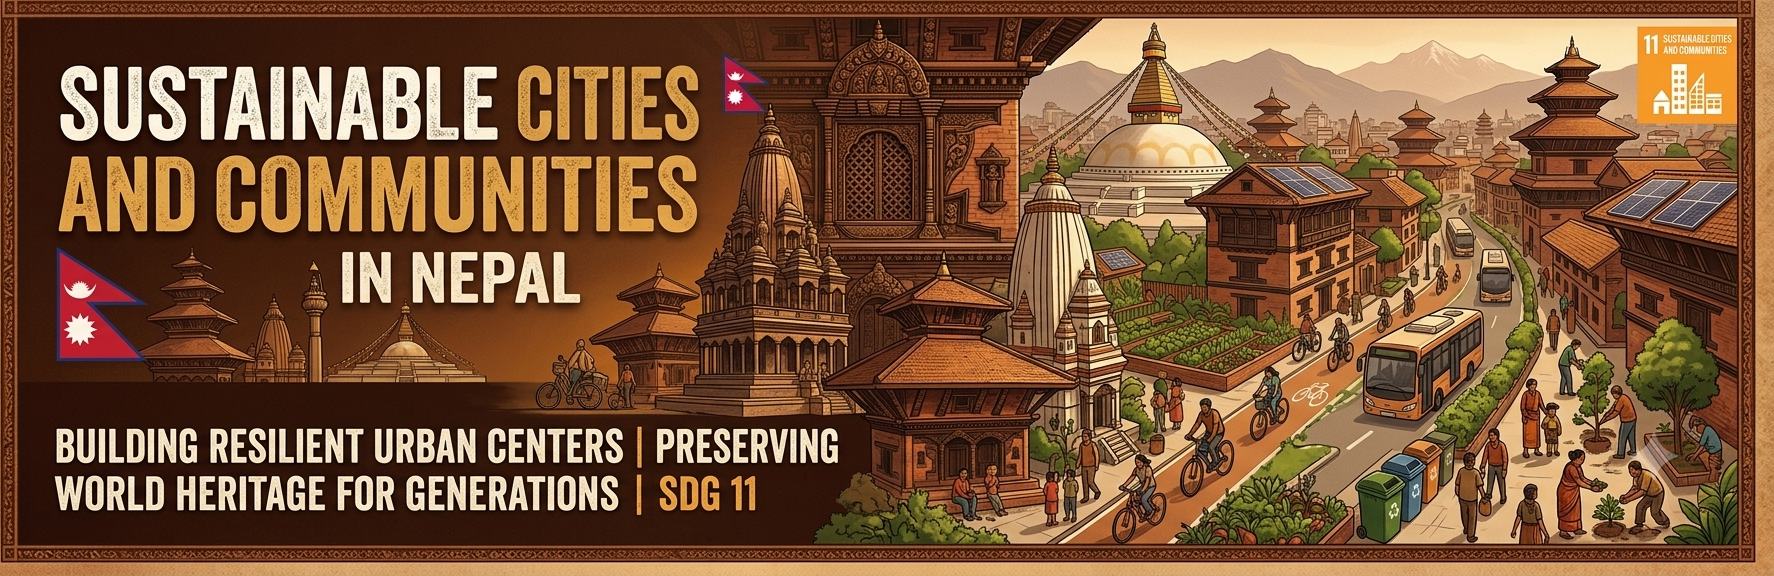
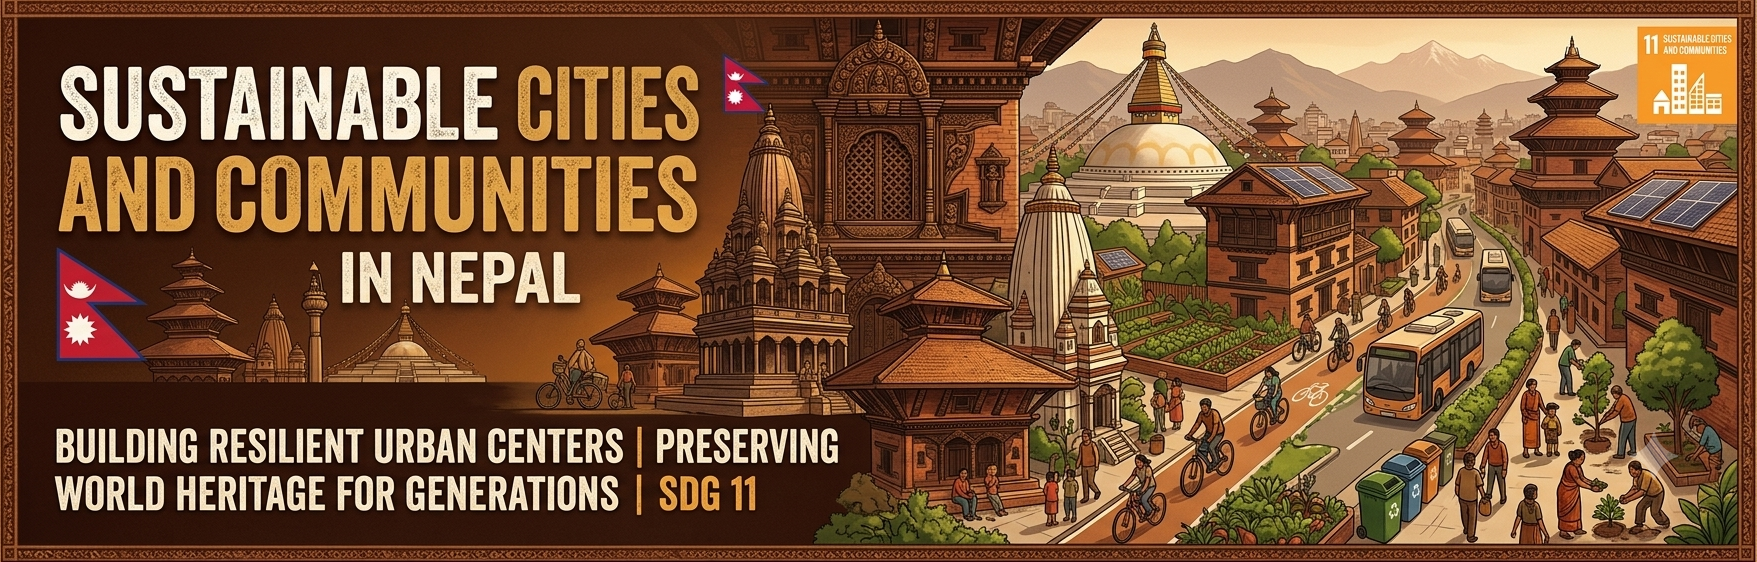
update - phase3

diff --git a/HTML/campaign_admin.html b/HTML/campaign_admin.html
@@ -38,26 +38,28 @@
         </div>
         <br>
         <form id="Inputing">
-            <div id="Inputing-box">
-                
-                <label for="in-title">Title:</label>
-                <input type="text" id="in-title" name="title">
+        <div id="Inputing-box">
 
-                <label for="in-loca">Location:</label>
-                <input type="text" id="in-loca" name="location">
+            <label for="in-title">Title:</label>
+            <input type="text" id="in-title" name="title">
 
-                <label for="in-comp">Institution:</label>
-                <input type="text" id="in-comp" name="institution">
+            <label for="in-loca">Location:</label>
+            <input type="text" id="in-loca" name="location">
 
-                <label for="in-des">Description:</label>
-                <textarea id="in-des" name="description" rows="5"></textarea>
+            <label for="in-comp">Institution:</label>
+            <input type="text" id="in-comp" name="institution">
 
-                <label for="in-link">Link:</label>
-                <input type="url" id="in-link" name="link">
+            <label for="in-des">Description:</label>
+            <textarea id="in-des" name="description" rows="5"></textarea>
 
-                <button type="submit">Submit</button>
-            </div>
+            <label for="in-link">Link:</label>
+            <input type="url" id="in-link" name="link">
+
+            <button type="submit" onclick="input()">Submit</button>
+        </div>
         </form>
+
+
         <script src="../JS/campaign_admin.js"></script>
     </body>
 </html>

diff --git a/CSS/campaign.css b/CSS/campaign.css
@@ -19,7 +19,7 @@
 }
 
 body {
-    background-color: var(--light);
+    background-color: #3f1802;
     color: var(--dark);
     line-height: 1.6;
 
@@ -110,7 +110,7 @@ nav {
 .campaign-hero {
     background: url('../data/banner.png');
     background-size: cover;
-    margin-top: 50px;
+    margin-top: 0px;
     padding-top: 20px;
     width: 100%;
     height: 560px;

diff --git a/main/campaign_admin.py b/main/campaign_admin.py
@@ -1,0 +1,47 @@
+from fastapi import FastAPI
+from fastapi.middleware.cors import CORSMiddleware #to let data from any site be accepted
+from motor.motor_asyncio import AsyncIOMotorClient
+from pydantic import BaseModel
+import pymongo
+
+# create a MongoDB client and collection so the import is used and the app can store data
+MONGO_DETAILS ="mongodb://localhost:27017/"
+client = AsyncIOMotorClient(MONGO_DETAILS)
+db = client["hack4impact"]
+campaigns = db["campaigns"]
+
+app =FastAPI()
+
+app.add_middleware(
+    CORSMiddleware,
+    allow_origins=["*"],  # Replace "*" with your production domain (e.g., your github.io link) later
+    allow_credentials=True,
+    allow_methods=["*"],
+    allow_headers=["*"],
+)
+
+class payload(BaseModel): #structure
+    t:str
+    l:str
+    i:str
+    d:str
+    li:str
+
+@app.post('/api/campaign')
+async def campaign_data(data: payload):
+    cdb = data.model_dump()
+    result = await campaigns.insert_one(cdb)
+    if "_id" in cdb:
+        cdb["_id"] = str(cdb["_id"])
+    
+    existing_dbs = await client.list_database_names()
+    print("📢 REAL-TIME DATABASES IN MONGODB:", existing_dbs)
+
+    return {
+        "status": "success", 
+        "inserted_id": str(result.inserted_id)
+    }
+
+@app.get('/api/campaign')
+def get_campaign():
+    return "this is the campaign"
